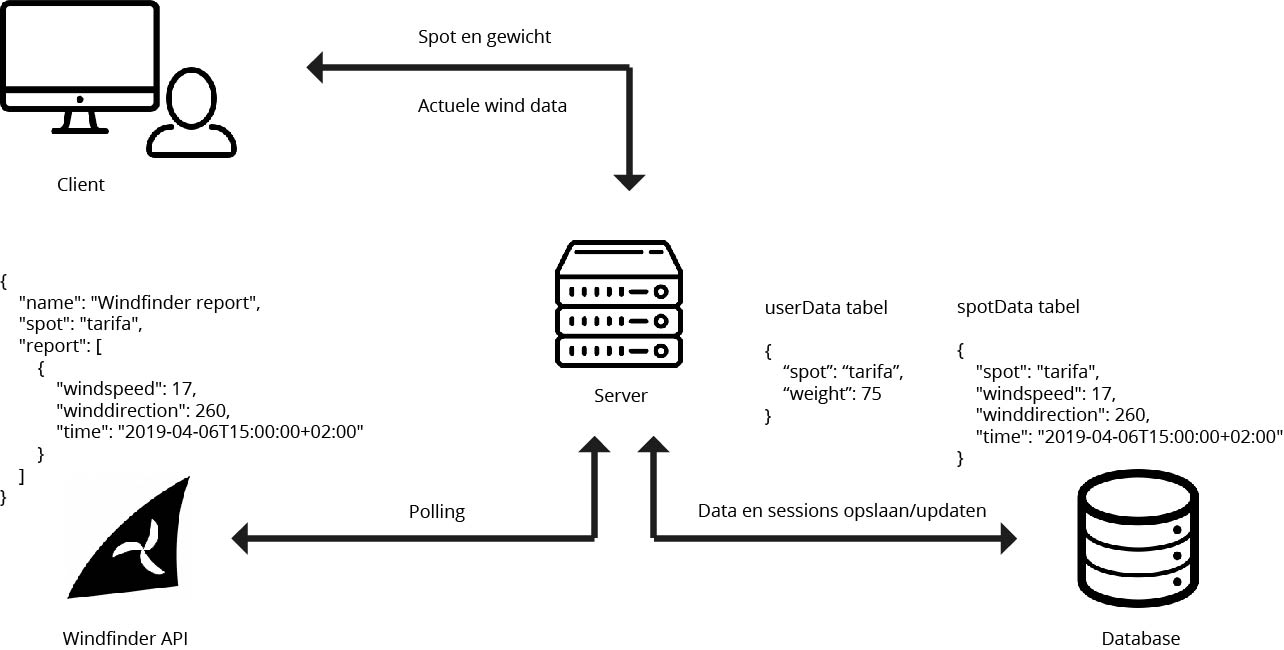
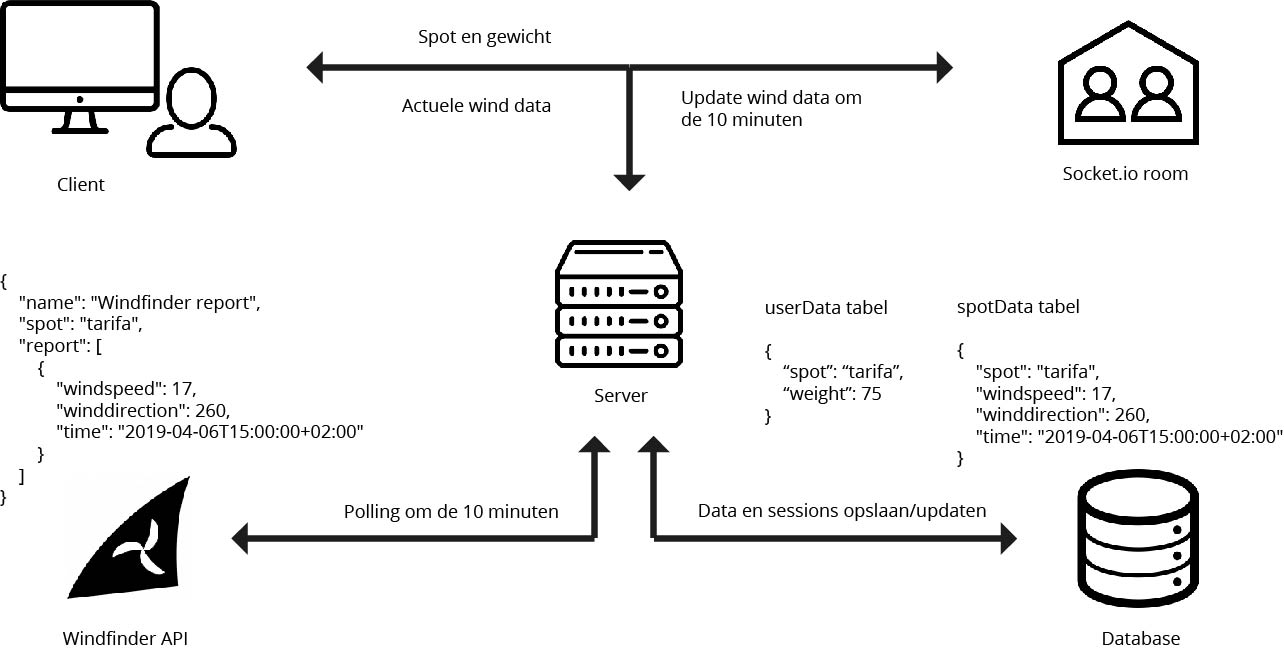
Updated readme

diff --git a/README.md b/README.md
@@ -5,13 +5,20 @@
 * [Concept](#concept)
 * [API](#api)
 * [Data lifecycle](#data-lifecycle)
+* [To do](#to-do)
 
 ## Concept
 Deze applicatie haalt de actuele windsnelheid op en berekent de zeilgrootte die een windsurfer bij de actuele wind zou moeten optuigen. Geïnspireerd door [dit project](https://github.com/RoryMearns/Windsurf_Calculator).  
 
 Wanneer een gebruiker data aanvraagt van een spot wordt deze data opgeslagen in een SQL database en wordt er een timer gezet om na 10 minuten nieuwe data op te halen en naar de clients te sturen die op dat moment de data van die spot gebruiken, waarna de data in de databse weer wordt geüpdatet. Wanneer een andere gebruiker data voor dezelfde spot opvraagt wordt deze data uit de database opgehaald.
 
+Ook wordt de gebruiker in een socket.io room gestopt met de naam van de spot. Zo kunnen alle gebruikers die dezelfde spot bekijken in een keer van nieuwe informatie worden voorzien.
+
+<details>
+<summary>Simpele schets van het concept</summary>
+
 ![concept schets](bin/schets.jpg)
+</details>
 
 ## API
 De app gebruikt de windfinder API om actuele winddata op te halen. Dit wordt gedaan met mijn [wind-scrape](https://github.com/jeroentvb/wind-scrape) project omdat de windfinder API niet helemaal publiek is. Het heeft een key nodig die dagelijks verandert.  
@@ -21,8 +28,13 @@ Dit is een voorbeeld van een API link, deze zal niet werken wanneer je dit leest
 ## Data lifecycle
 <details>
 <summary>De eerste (getekende) versie van de data lifecycle</summary>
-  
+
 ![data lifecycle](bin/data-lifecycle-old.jpg)
 </details>
 
 ![data lifecycle](bin/data-lifecycle.jpg)
+
+## To do
+- [ ] Geef de pagina beter vorm
+- [ ] Geef de gebruiker feedback als er nieuwe data binnen is
+- [ ] Autocomplete mogelijke bestaande spots
